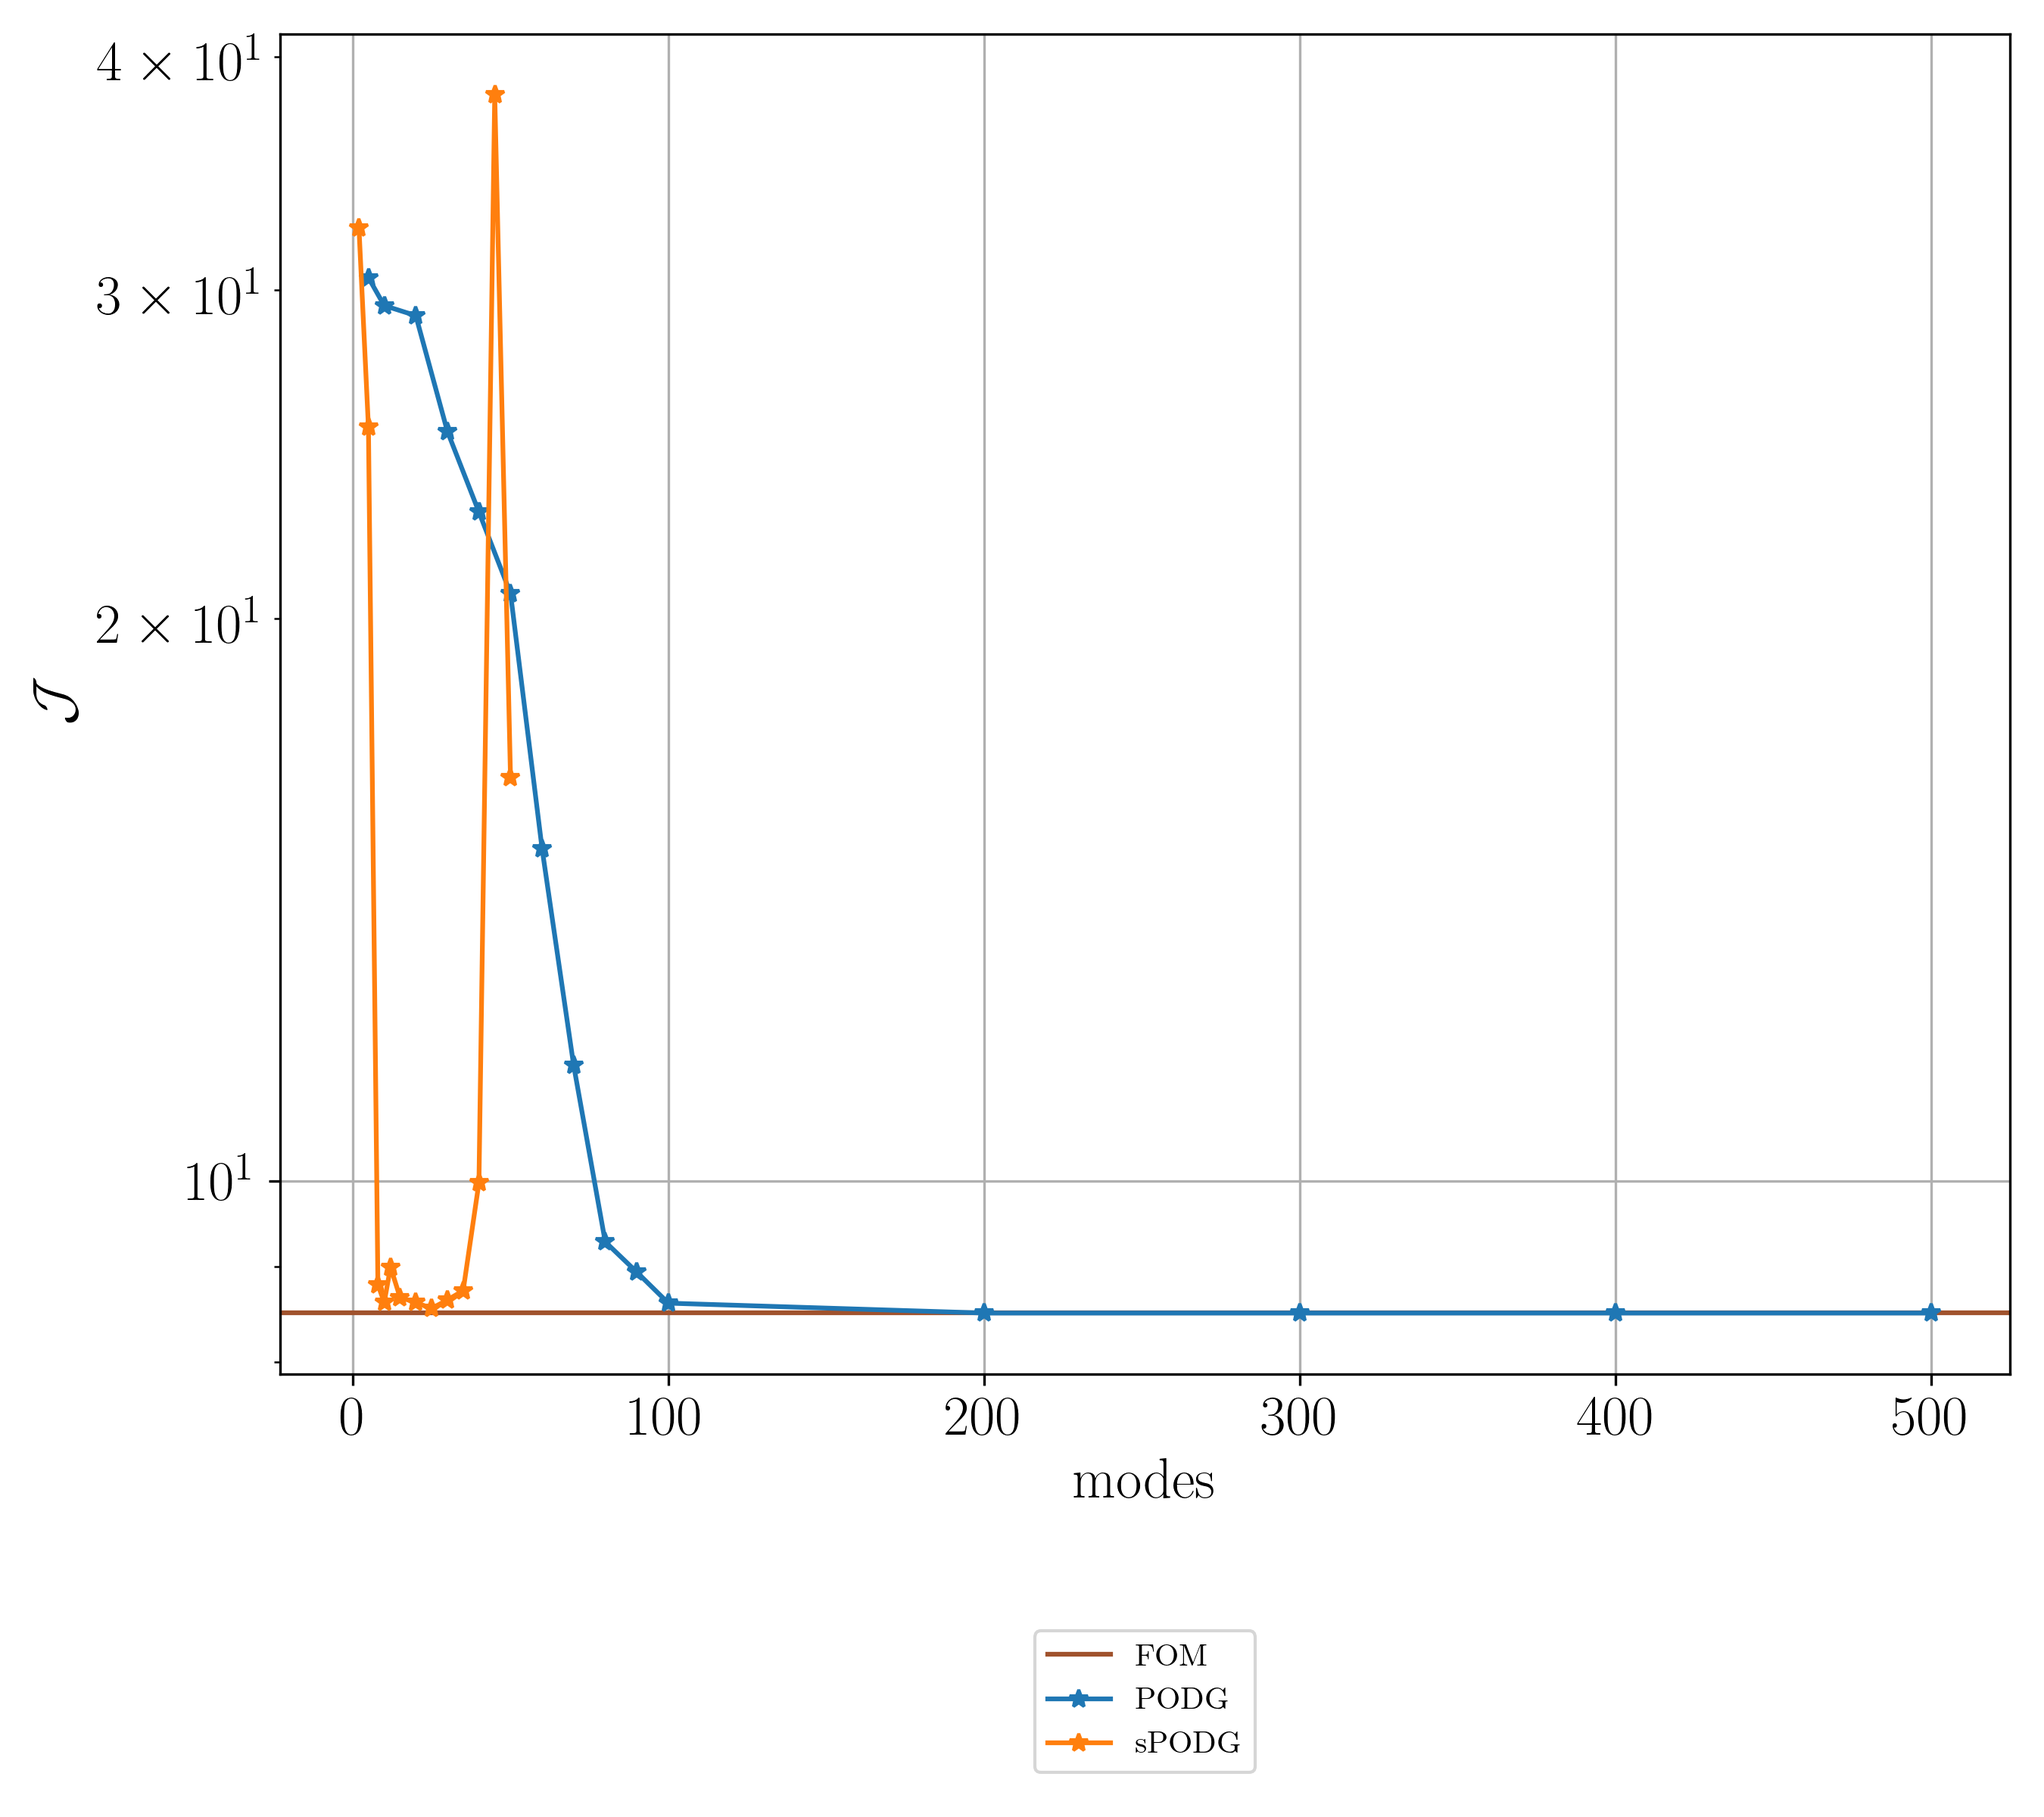
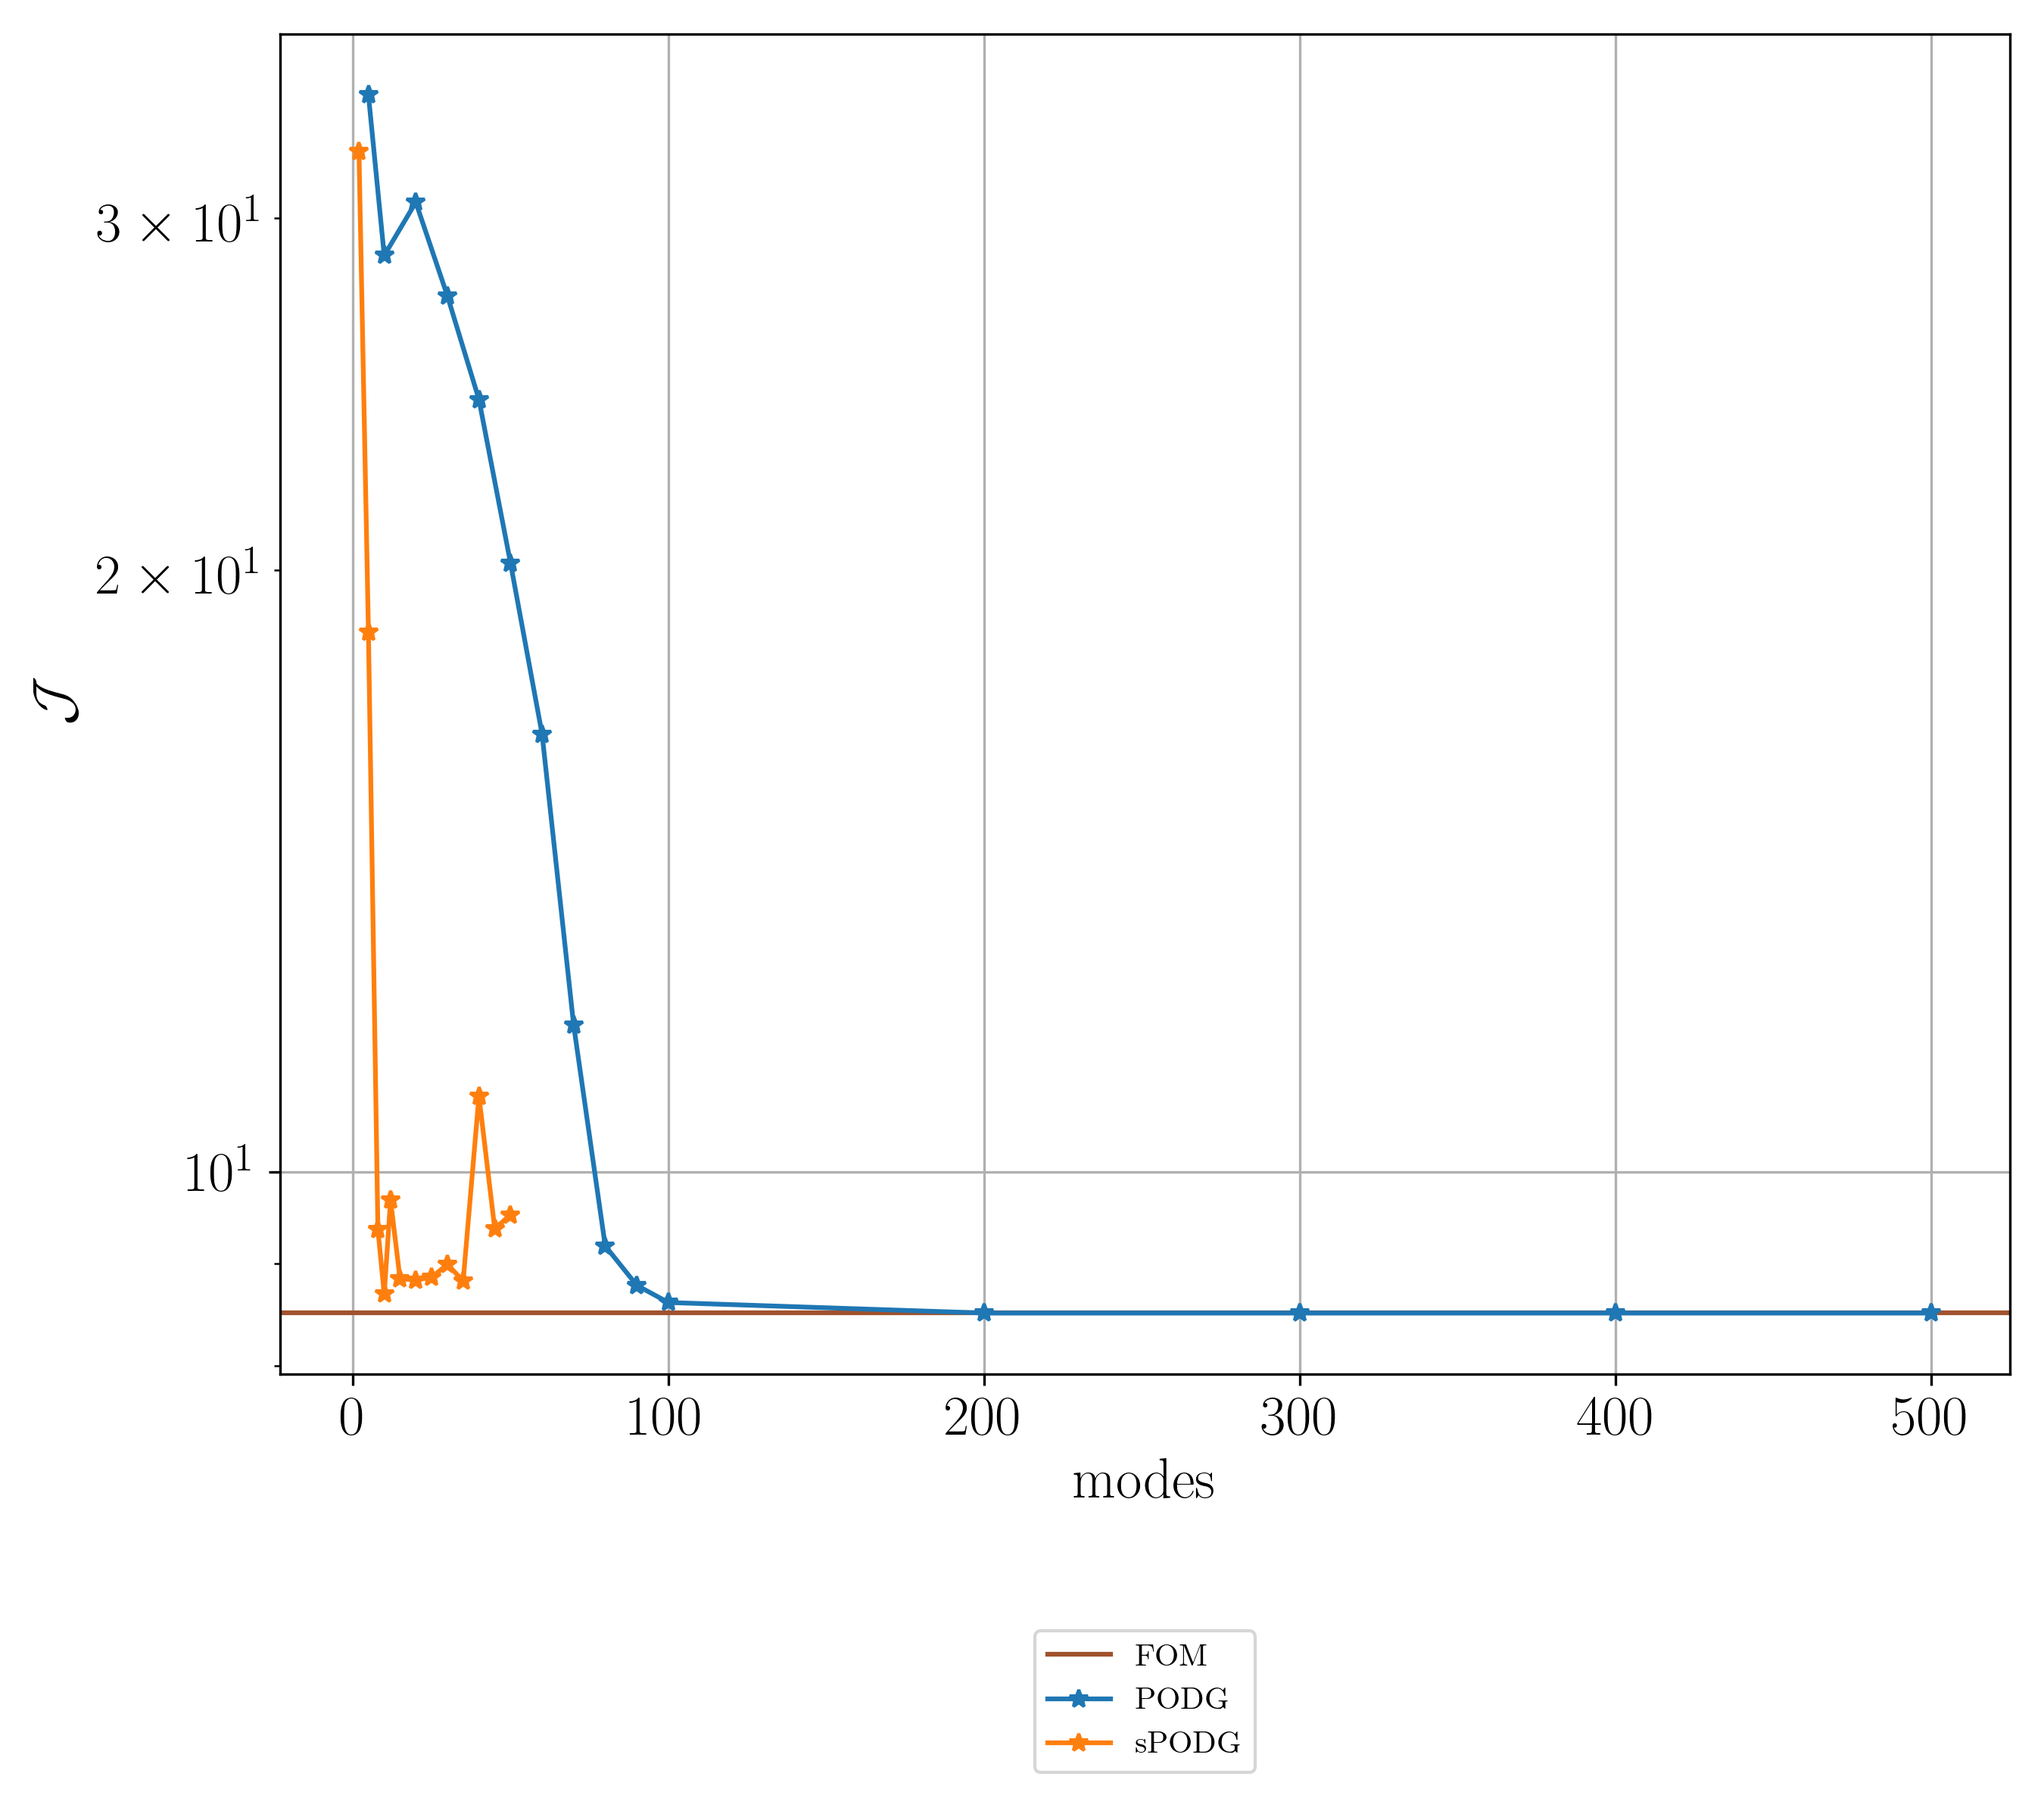
minor playarounds

diff --git a/files_advection/FOM.py b/files_advection/FOM.py
@@ -270,7 +270,31 @@ if __name__ == "__main__":
     stag = False
     stag_cntr = 0
 
-    # svd = []
+    # Mat = CoefficientMatrix(orderDerivative="8thOrder", Nxi=wf.Nx, Neta=1, periodicity='Periodic', dx=wf.dx, dy=0)
+    # A_p = - wf.v_x[0] * Mat.Grad_Xi_kron
+    # qs_org = TI_primal(qs0, f, A_p, psi, wf.Nx, wf.Nt, wf.dt)
+    # snap_cat_p_s = np.column_stack([np.roll(qs_org[:, j], -j, axis=0) for j in range(qs_org.shape[1])])
+    # V_p, S, VT = randomized_svd(snap_cat_p_s, n_components=50, random_state=42)
+    # s_norm = S / S[0]  # normalize by largest singular value
+    #
+    # idx = np.arange(1, len(s_norm) + 1)
+    # fig, ax = plt.subplots(figsize=(6, 4))
+    # ax.semilogy(idx, s_norm,
+    #             color="brown",
+    #             marker="+",
+    #             linestyle='None',
+    #             markersize=5)
+    # ax.set_ylabel(r"$\sigma_{k} / \sigma_{0}$")
+    # ax.set_xlabel(r"Num. of singular vals.")
+    # ax.grid(True, linestyle='--', alpha=0.6)
+    # fig.tight_layout()
+    # plt.show()
+    #
+    # qs_sPOD_p = V_p @ np.diag(S) @ VT
+    # Nm_p = V_p.shape[1]
+    # err_p = np.linalg.norm(snap_cat_p_s - qs_sPOD_p) / np.linalg.norm(snap_cat_p_s)
+    # print(f"Primal basis: Nm_p={Nm_p}, err={err_p:.3e}")
+
 
     # ─────────────────────────────────────────────────────────────────────
     # Main “optimize‐step” loop wrapped in try/except/finally
@@ -541,16 +565,6 @@ if __name__ == "__main__":
     pf.plot1D(f_opt, name="f_opt", immpath=plot_dir)
     pf.plot1D_FOM_converg(J_opt_list, name="J", immpath=plot_dir)
 
-
-
-
-
-
-
-
-
-
-
     # # Addition !!!!!!!!!!!!!!!!!!!!!!!!!!!!!!!!!!!!!!!!!
     # eigV, eigvecs = np.linalg.eig(A_p.todense())
     # order = np.argsort(np.abs(eigV))
@@ -583,7 +597,6 @@ if __name__ == "__main__":
     # plt.show()
     # exit()
     #
-
 
     # kwargs['Nm_p'] = snap_cat_p_s.shape[1]
     # kwargs['threshold'] = None

diff --git a/Coefficient_Matrix.py b/Coefficient_Matrix.py
@@ -86,9 +86,11 @@ class CoefficientMatrix:
         if orderDerivative == '1stOrder':
             self.__GradCoef = np.array([0, -1, 1, 0, 0])
             self.__DivCoef = np.array([0, 0, -1, 1, 0])
-        elif orderDerivative == '2ndOrder':
-            self.__GradCoef = np.array([1 / 2, -2, 3 / 2, 0, 0])
+            self.__LaplaceCoeff = np.array([0, 0, 0, 0, 0])
+        elif orderDerivative == '2ndOrder':  # Central finite difference
+            self.__GradCoef = np.array([0, -1 / 2, 0, 1 / 2, 0])
             self.__DivCoef = np.array([0, 0, -3 / 2, 2, -1 / 2])
+            self.__LaplaceCoeff = np.array([0, 0, 0, 0, 0])
         elif orderDerivative == '3rdOrder':
             self.__GradCoefUL = np.array([[-11 / 6, 3, -3 / 2, 1 / 3],
                                           [-1 / 3, -1 / 2, 1, -1 / 6]])  # Non periodic (left)
